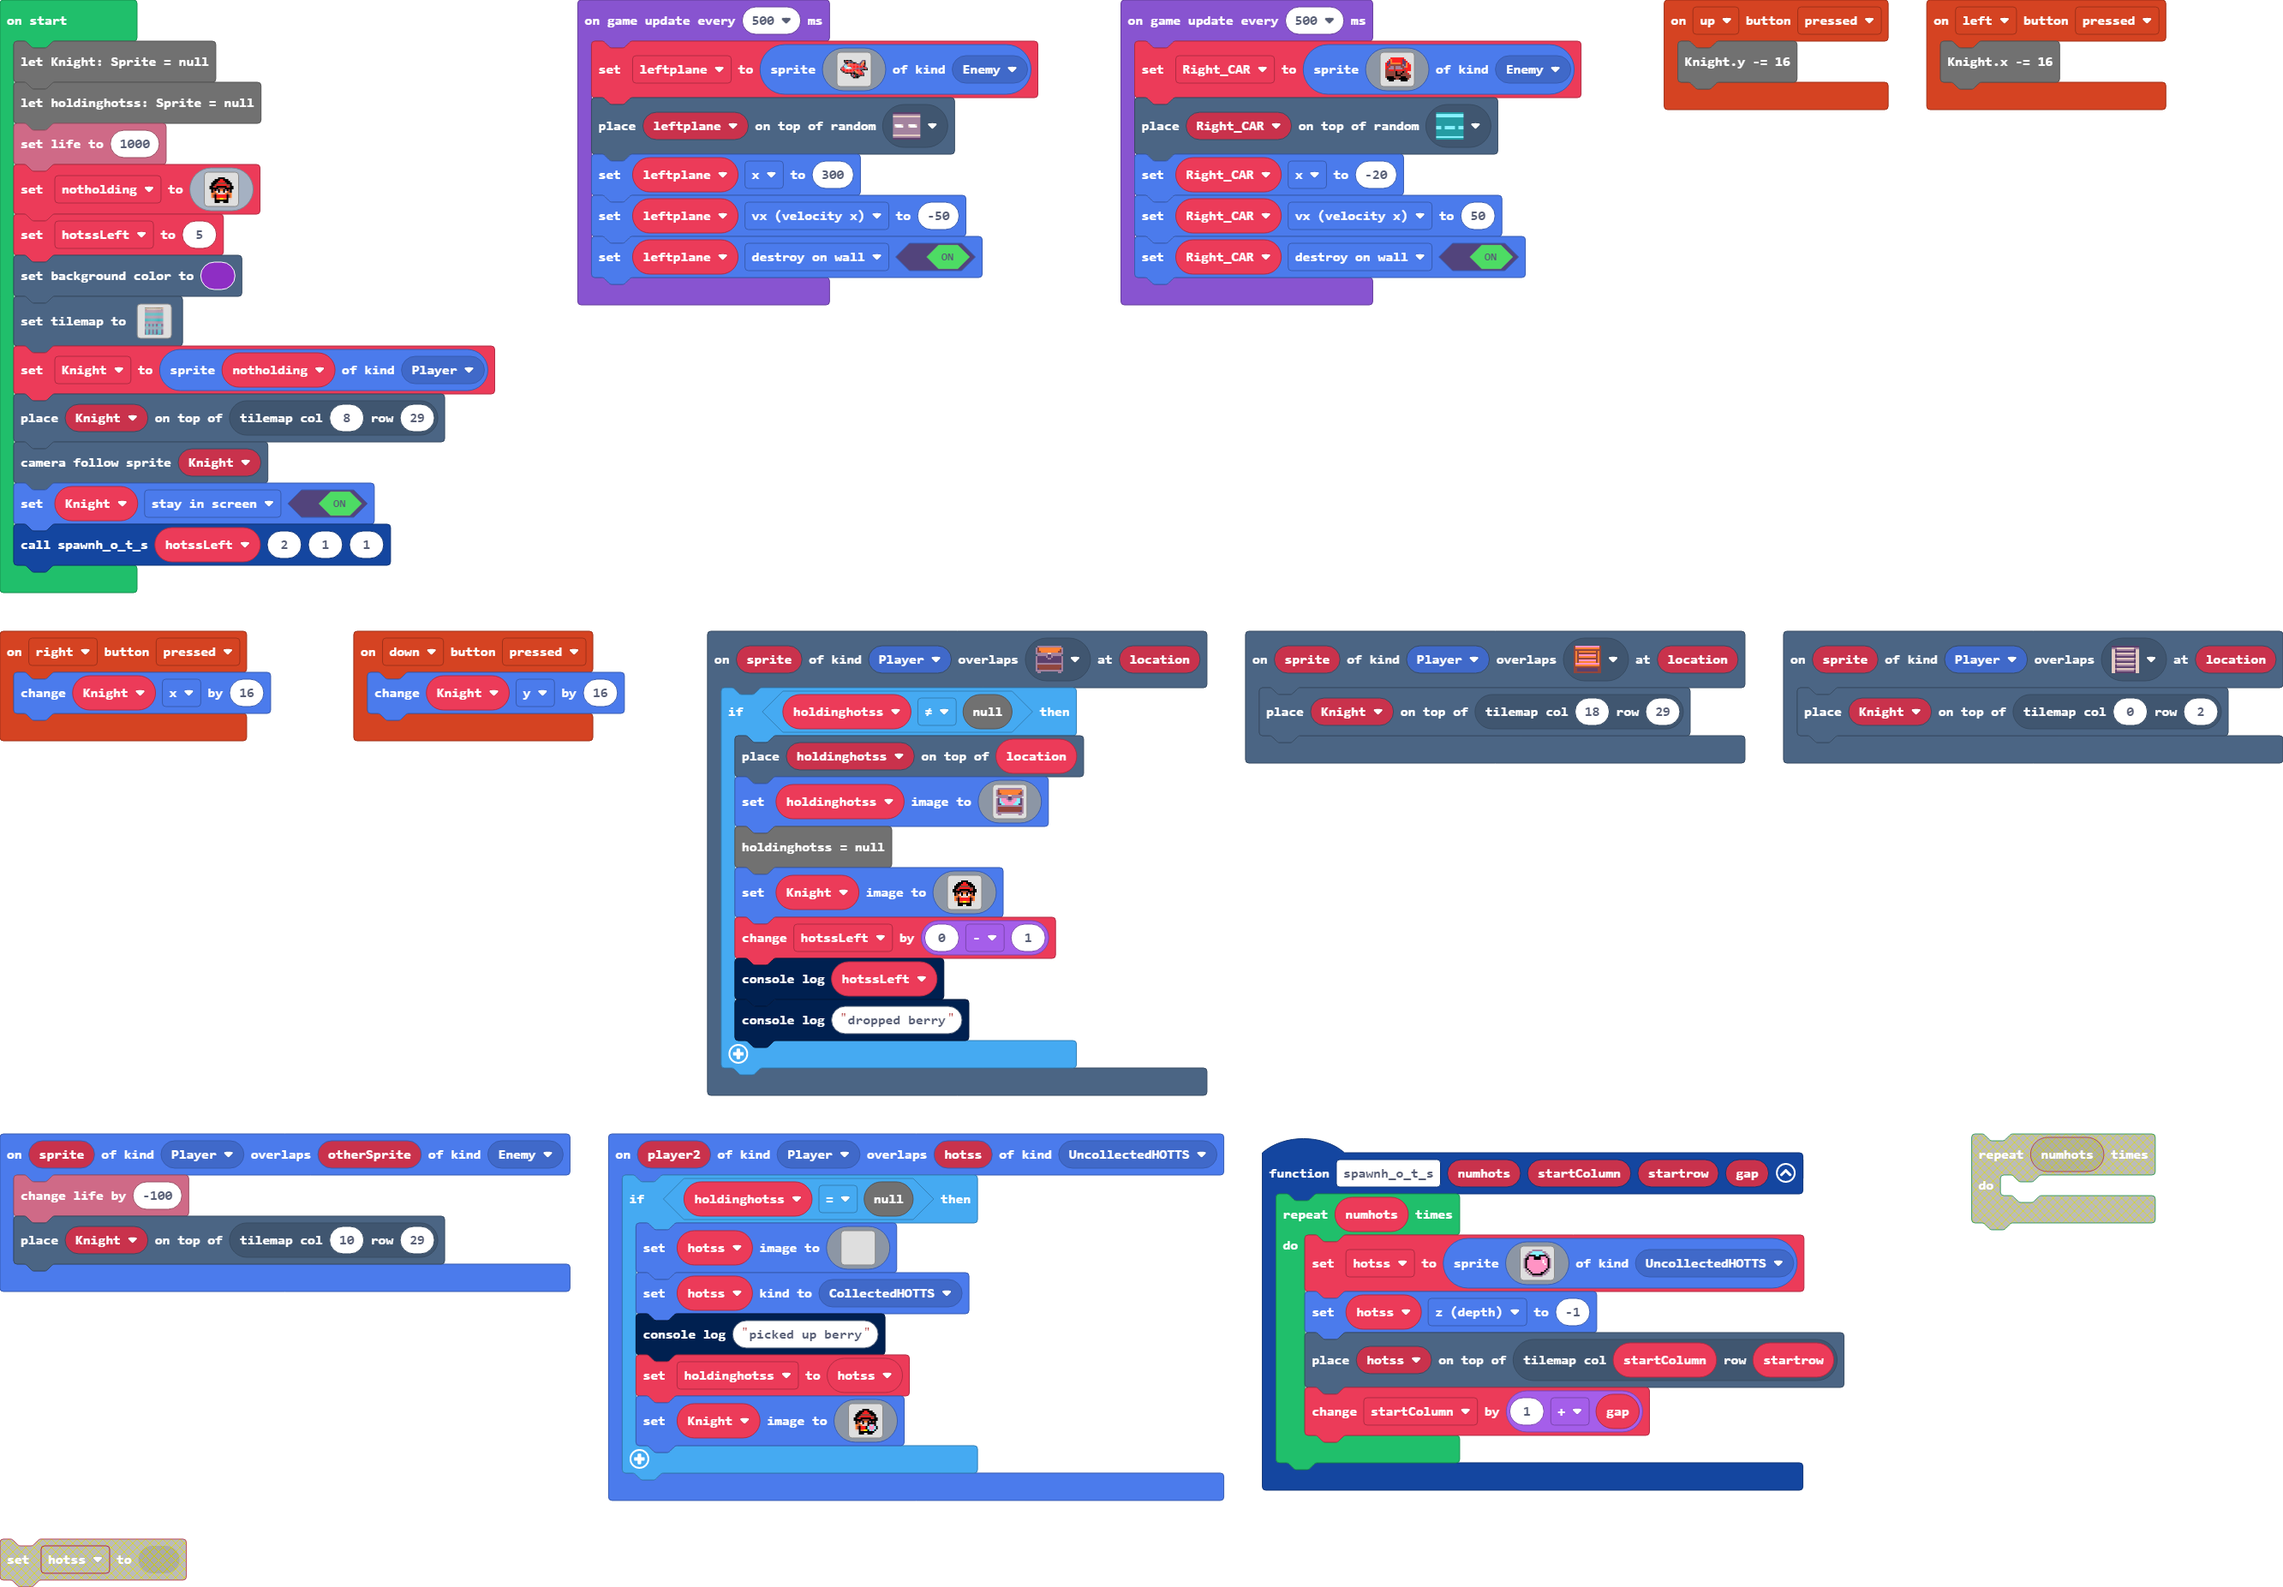
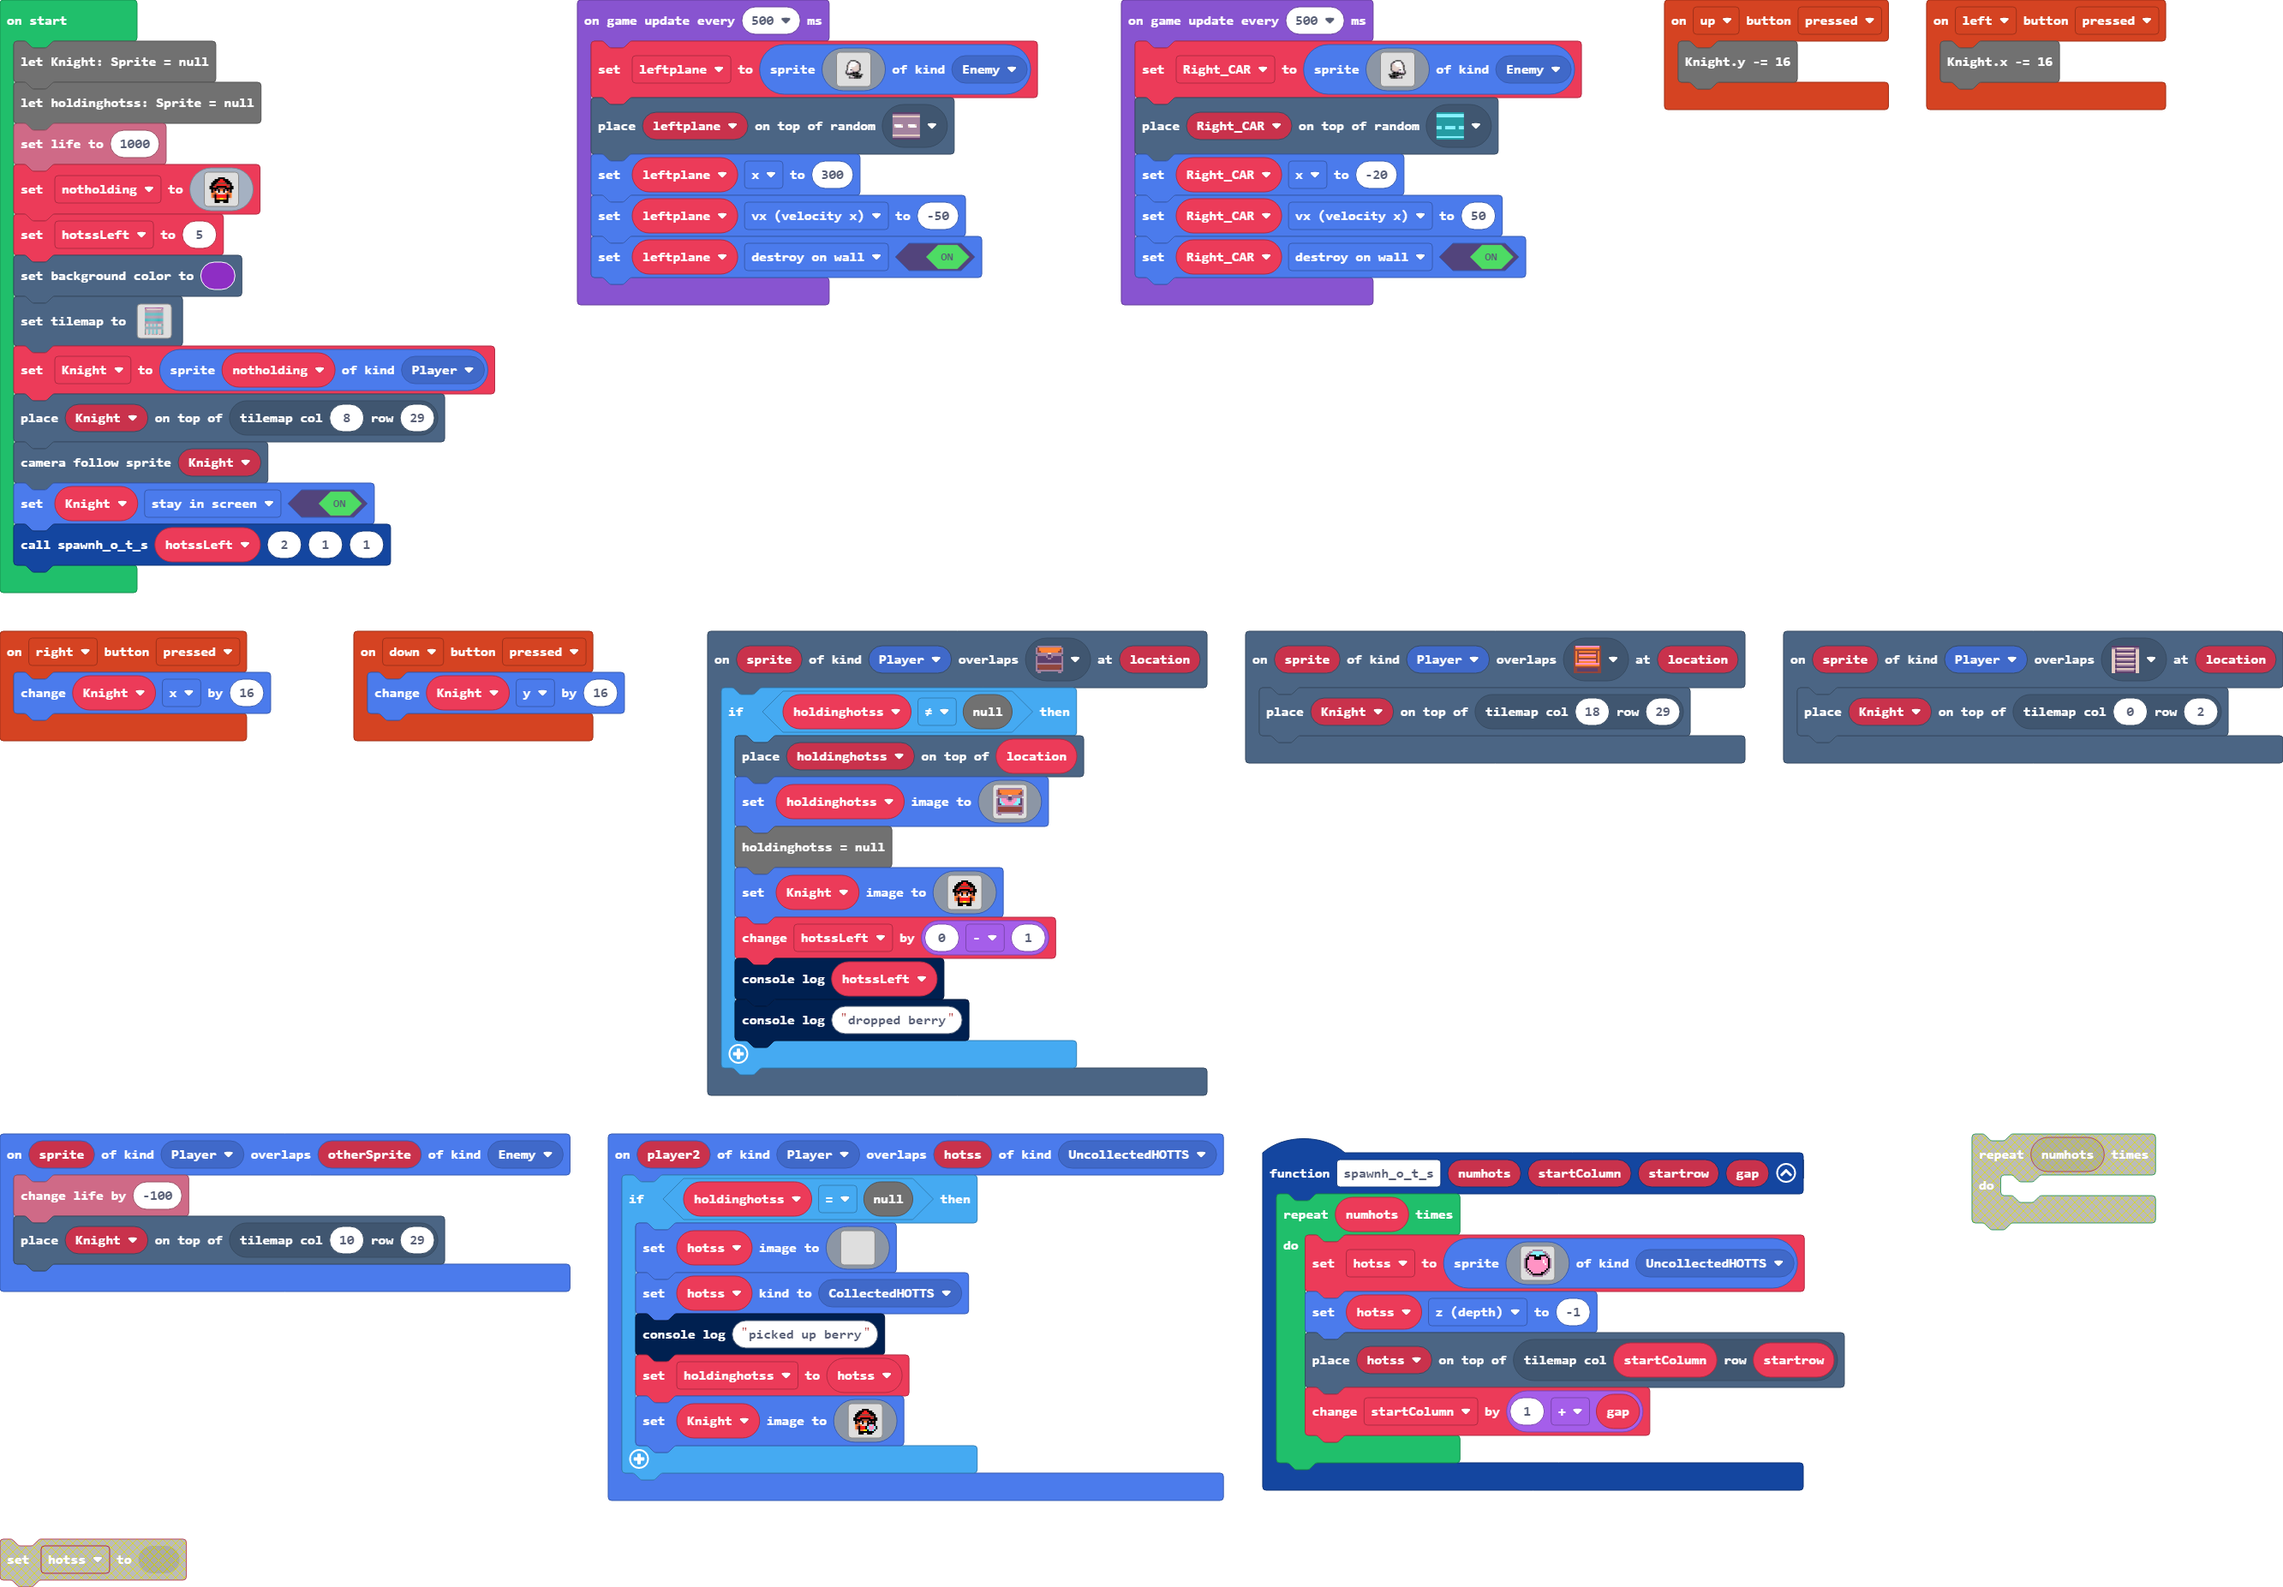
Update main.blocks, main.ts, tilemap.g.jres, tilemap.g.ts

Changed region(s): [[0.8409, 0.7075, 0.9343, 0.769], [0.5917, 0.0308, 0.6229, 0.0615], [0.3737, 0.0308, 0.4049, 0.0615]]

diff --git a/tilemap.g.ts b/tilemap.g.ts
@@ -19,39 +19,6 @@ namespace myTiles {
 
     helpers._registerFactory("tilemap", function(name: string) {
         switch(helpers.stringTrim(name)) {
-            case "level1":
[1 lines of base64/hex data omitted]
-....................
-....................
-....................
-....................
-....................
-....................
-....................
-....................
-....................
-....................
-....................
-....................
-....................
-....................
-....................
-....................
-....................
-....................
-....................
-....................
-....................
-....................
-....................
-....................
-....................
-....................
-....................
-....................
-....................
-....................
-`, [myTiles.transparency16,sprites.vehicle.roadHorizontal,myTiles.tile1,sprites.dungeon.chestOpen,sprites.dungeon.collectibleInsignia,sprites.dungeon.darkGroundCenter,sprites.dungeon.darkGroundSouth,sprites.dungeon.darkGroundWest,sprites.dungeon.darkGroundEast,sprites.dungeon.collectibleBlueCrystal,sprites.dungeon.collectibleRedCrystal,sprites.castle.tilePath1,sprites.castle.tilePath3,sprites.castle.tilePath2,myTiles.tile3,myTiles.tile4,myTiles.tile5,sprites.dungeon.doorLockedSouth,sprites.dungeon.stairSouth,sprites.dungeon.stairWest,sprites.dungeon.stairEast,sprites.dungeon.stairLadder,sprites.dungeon.doorOpenSouth,sprites.dungeon.doorClosedNorth], TileScale.Sixteen);
             case "level2":
             case "level2":return tiles.createTilemap(hex`1000100000000000000000000000000000000000000000000000000000000000000000000000000000000000000000000000000000000000000000000000000000000000000000000000000000000000000000000000000000000000000000000000000000000000000000000000000000000000000000000000000000000000000000000000000000000000000000000000000000000000000000000000000000000000000000000000000000000000000000000000000000000000000000000000000000000000000000000000000000000000000000000000000000000000000000000000000000000000000000000000000000000000000000000000000000000000`, img`
 . . . . . . . . . . . . . . . . 
@@ -71,6 +38,39 @@ namespace myTiles {
 . . . . . . . . . . . . . . . . 
 . . . . . . . . . . . . . . . . 
 `, [myTiles.transparency16], TileScale.Sixteen);
+            case "level1":
[1 lines of base64/hex data omitted]
+....................
+....................
+....................
+....................
+....................
+....................
+....................
+....................
+....................
+....................
+....................
+....................
+....................
+....................
+....................
+....................
+....................
+....................
+....................
+....................
+....................
+....................
+....................
+....................
+....................
+....................
+....................
+....................
+....................
+....................
+`, [myTiles.transparency16,sprites.vehicle.roadHorizontal,myTiles.tile1,sprites.dungeon.chestOpen,sprites.dungeon.collectibleInsignia,sprites.dungeon.doorLockedSouth,sprites.dungeon.stairSouth,sprites.dungeon.stairWest,sprites.dungeon.stairEast,sprites.dungeon.stairLadder,sprites.dungeon.doorOpenSouth,sprites.dungeon.doorClosedNorth,sprites.dungeon.greenOuterWest1,sprites.dungeon.greenOuterEast1,sprites.dungeon.floorLight0,sprites.dungeon.purpleOuterNorthEast,sprites.dungeon.purpleOuterNorthWest,sprites.dungeon.floorLight1,sprites.dungeon.greenOuterWest2,sprites.dungeon.greenOuterEast2,sprites.dungeon.purpleOuterEast2,sprites.dungeon.purpleOuterWest2,sprites.dungeon.purpleOuterNorth2], TileScale.Sixteen);
         }
         return null;
     })

diff --git a/main.ts b/main.ts
@@ -105,22 +105,30 @@ Knight.setFlag(SpriteFlag.StayInScreen, true)
 spawnh_o_t_s(hotssLeft, 2, 1, 1)
 game.onUpdateInterval(500, function () {
     leftplane = sprites.create(img`
-        ...fffffff.........ccc..
-        ...ff22ccff.......cc4f..
-        ....fffccccfff...cc44f..
-        ....cc24442222cccc442f..
-        ...c9b4422222222cc422f..
-        ..c999b2222222222222fc..
-        .c2b99111b222222222c22c.
-        c222b111992222ccccccc22f
-        f222222222222c222ccfffff
-        .f2222222222442222f.....
-        ..ff2222222cf442222f....
-        ....ffffffffff442222c...
-        .........f2cfffc2222c...
-        .........fcc2ffffffff...
-        ..........fc2ffff.......
-        ...........fffff........
+        ........................
+        ........................
+        ........................
+        ........................
+        .........fffff..........
+        ........f11111ff........
+        .......fb111111bf.......
+        .......f1111111dbf......
+        ......fd111111dddf......
+        ......fd11111ddddf......
+        ......fd11dddddddf......
+        ......f111dddddddf......
+        ......f11fcddddddf......
+        .....fb1111bdddbf.......
+        .....f1b1bdfcfff........
+        .....fbfbffffffff.......
+        ......fffffffffff.ff....
+        ...........ffffffff.....
+        ........f1b1bffffff.....
+        ........fbfbffffff......
+        ........................
+        ........................
+        ........................
+        ........................
         `, SpriteKind.Enemy)
     tiles.placeOnRandomTile(leftplane, sprites.vehicle.roadHorizontal)
     leftplane.x = 300
@@ -129,22 +137,30 @@ game.onUpdateInterval(500, function () {
 })
 game.onUpdateInterval(500, function () {
     Right_CAR = sprites.create(img`
-        . . . . . . . . . . . . . . . . 
-        . . . . 2 2 2 2 2 2 2 2 . . . . 
-        . . . 2 4 2 2 2 2 2 2 c 2 . . . 
-        . . 2 c 4 2 2 2 2 2 2 c c 2 . . 
-        . 2 c c 4 4 4 4 4 4 2 c c 4 2 d 
-        . 2 c 2 e e e e e e e b c 4 2 2 
-        . 2 2 e b b e b b b e e b 4 2 2 
-        . 2 e b b b e b b b b e 2 2 2 2 
-        . e e 2 2 2 e 2 2 2 2 2 e 2 2 2 
-        . e e e e e e f e e e f e 2 d d 
-        . e e e e e e f e e f e e e 2 d 
-        . e e e e e e f f f e e e e e e 
-        . e f f f f e e e e f f f e e e 
-        . . f f f f f e e f f f f f e . 
-        . . . f f f . . . . f f f f . . 
-        . . . . . . . . . . . . . . . . 
+        ........................
+        ........................
+        ........................
+        ........................
+        ..........fffff.........
+        ........ff11111f........
+        .......fb111111bf.......
+        ......fbd1111111f.......
+        ......fddd111111df......
+        ......fdddd11111df......
+        ......fddddddd11df......
+        ......fddddddd111f......
+        ......fddddddcf11f......
+        .......fbdddb1111bf.....
+        ........fffcfdb1b1f.....
+        .......ffffffffbfbf.....
+        ....ff.fffffffffff......
+        .....ffffffff...........
+        .....ffffffb1b1f........
+        ......ffffffbfbf........
+        ........................
+        ........................
+        ........................
+        ........................
         `, SpriteKind.Enemy)
     tiles.placeOnRandomTile(Right_CAR, assets.tile`reverse road`)
     Right_CAR.x = -20
